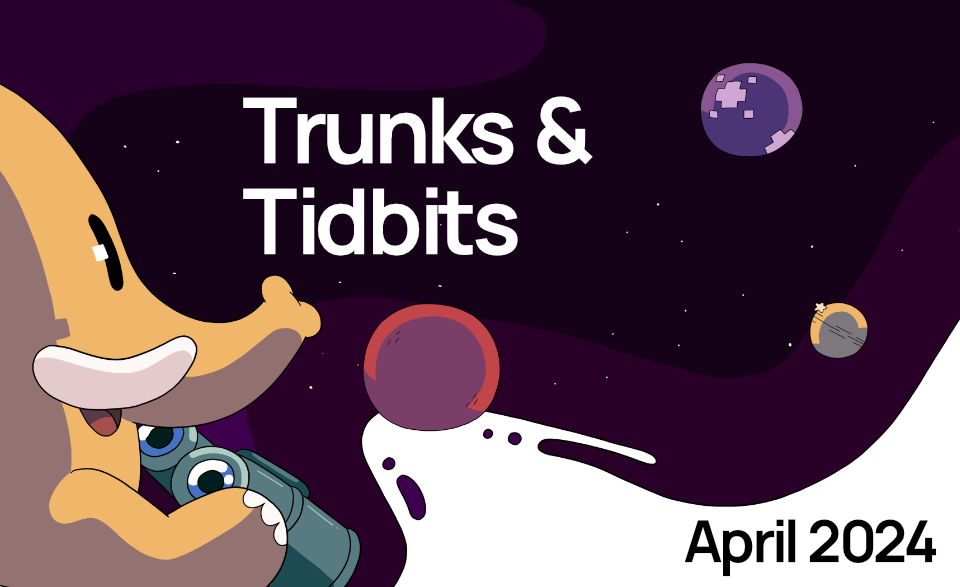
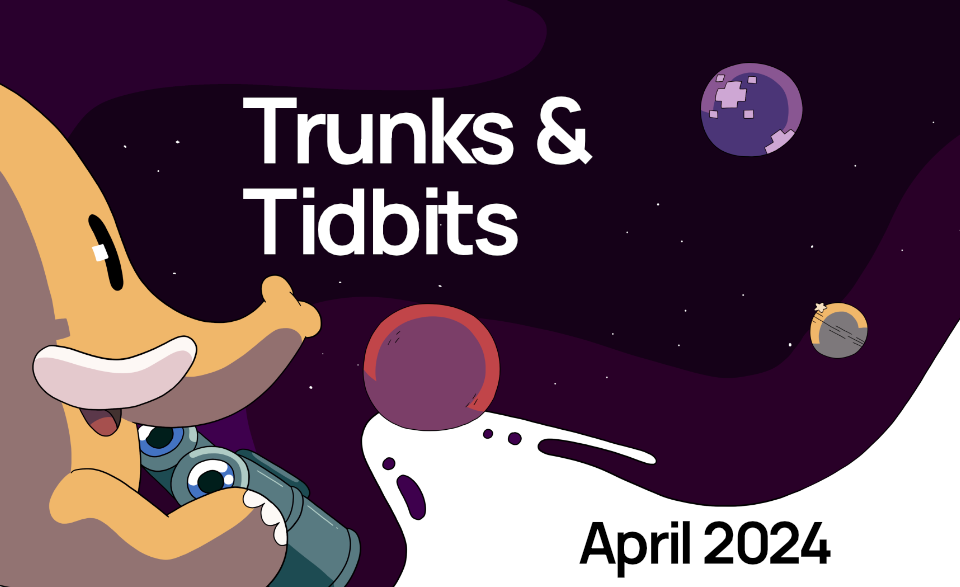
Publish the first Trunks and Tidbits post

Changed region(s): [[0.5938, 0.8893, 1.0, 0.9813]]

diff --git a/content/posts/2024-05-06_trunk_and_tidbits-april_2024/index.md b/content/posts/2024-05-06_trunk_and_tidbits-april_2024/index.md
@@ -1,7 +1,7 @@
 ---
 title: Trunk & Tidbits, April 2024
 description: "Welcome to the first in a planned ongoing series of updates from the core Mastodon engineering team"
-date: 2024-05-01
+date: 2024-05-07
 draft: false
 categories:
 - Trunk and Tidbits
@@ -12,6 +12,9 @@ tags:
 authors:
 - renchap
 - andy
+resources:
+- name: hero
+  src: hero.png
 ---
 
 Welcome to the first in a planned ongoing series of updates from the core Mastodon engineering team. We’ll also take a quick look at what’s been happening around the broader community.
